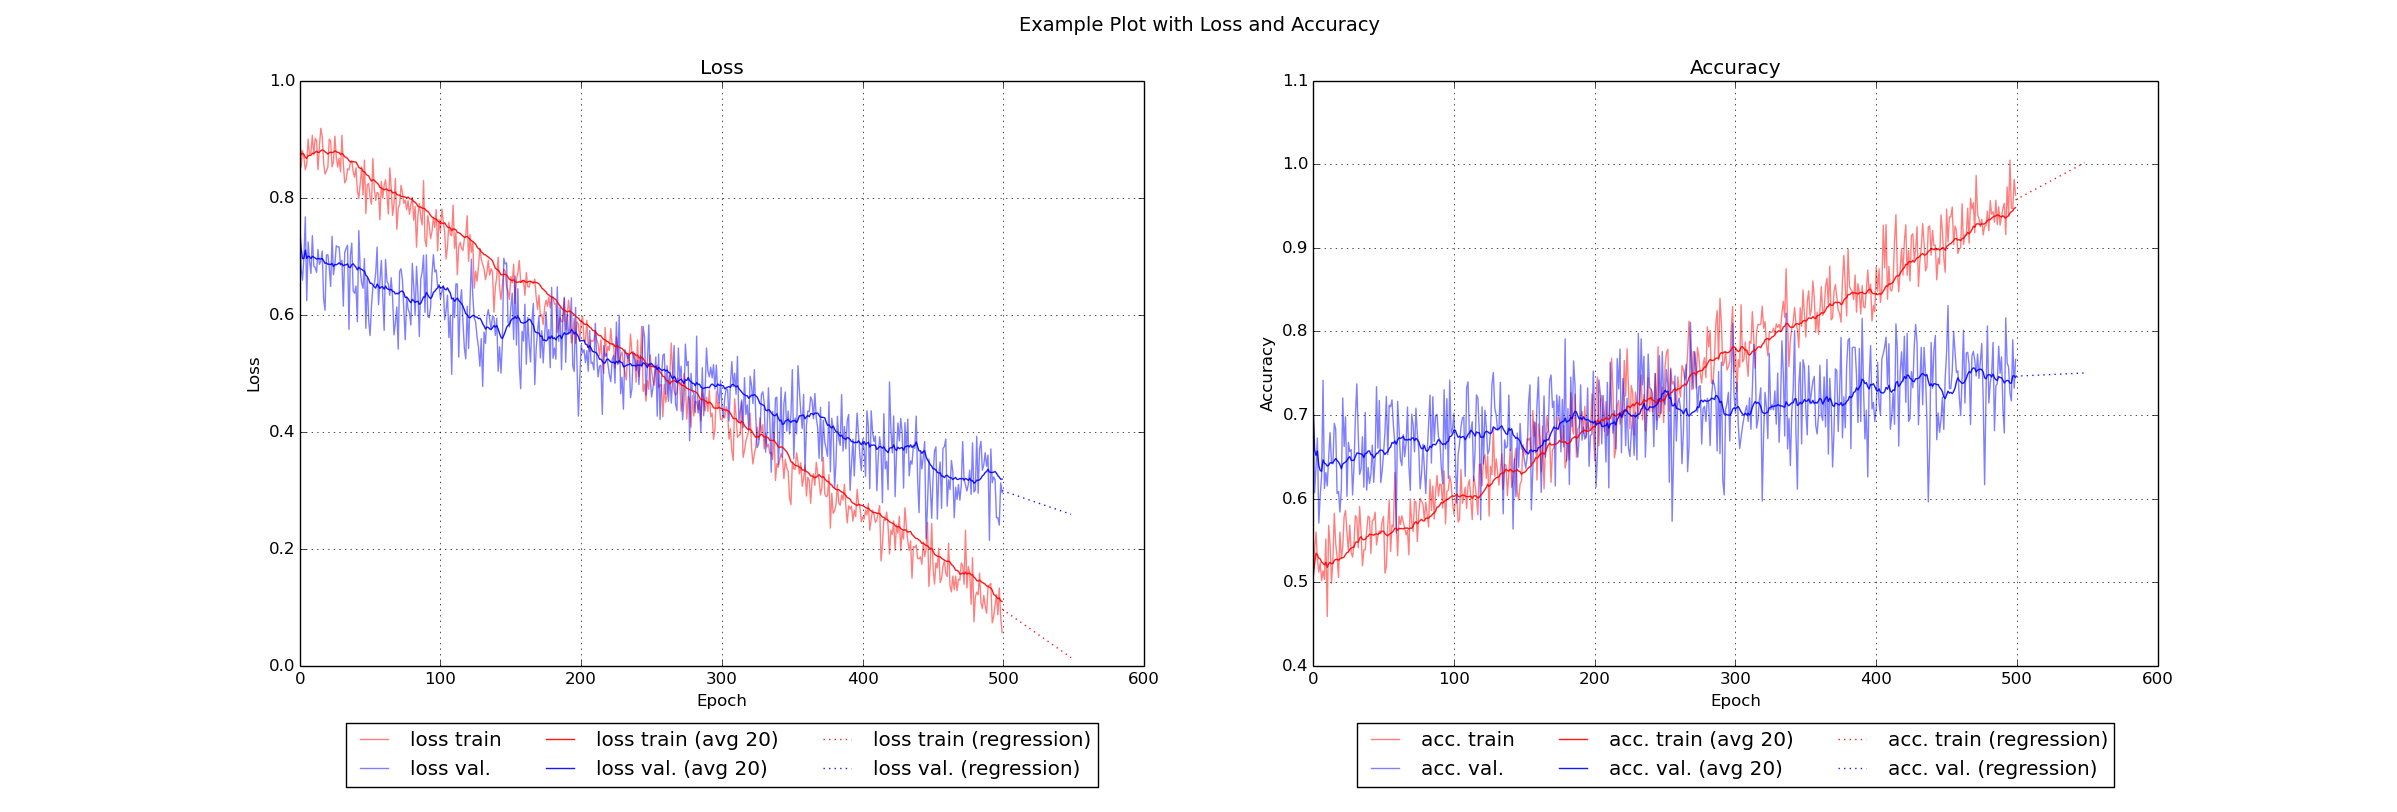
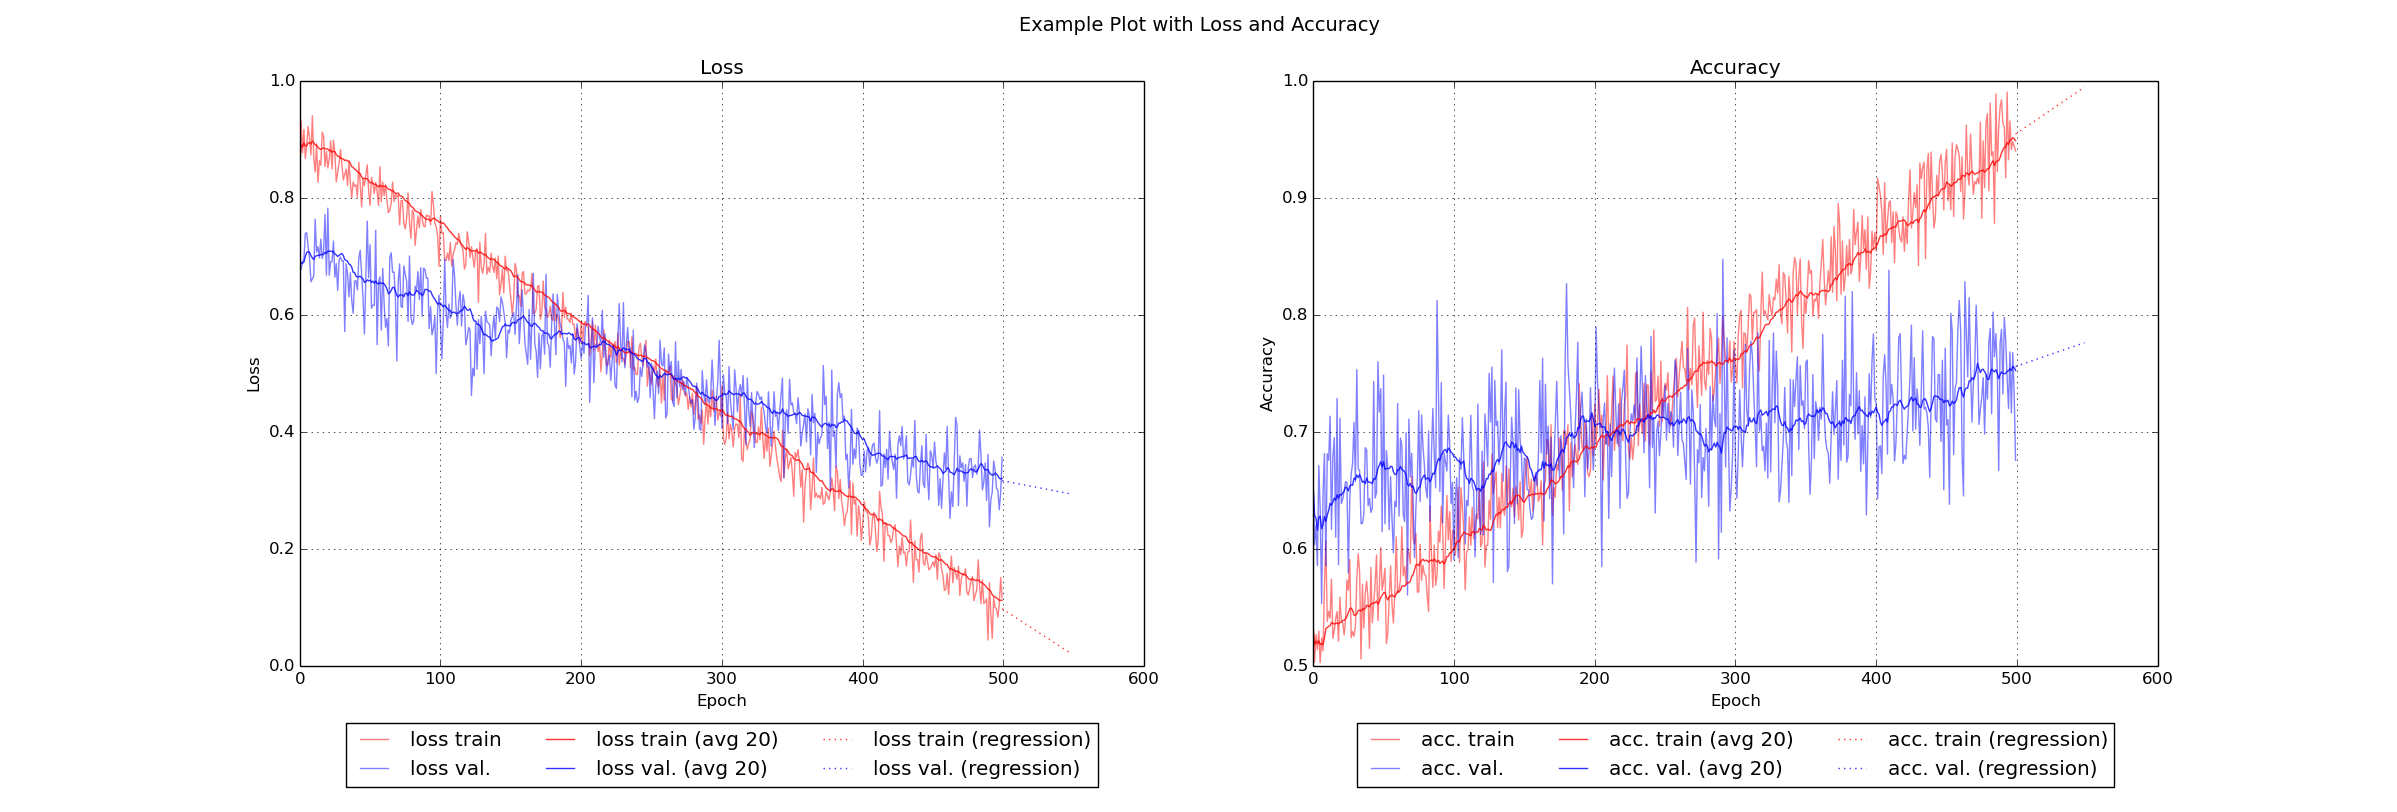
Modified: Use dictionaries instead of lists for (x,y) values of lines; optimize styling; Add: Comments

Changed region(s): [[0.5248, 0.1232, 0.8644, 0.8313], [0.1235, 0.1539, 0.4322, 0.7697]]

diff --git a/laplotter.py b/laplotter.py
@@ -37,6 +37,7 @@ import matplotlib.pyplot as plt
 import numpy as np
 import warnings
 import math
+from collections import OrderedDict
 
 def ignore_nan_and_inf(value, label, x_index):
     """Helper function that creates warnings on NaN/INF and converts them to None.
@@ -72,6 +73,7 @@ class LossAccPlotter(object):
                  show_plot_window=True,
                  x_label="Epoch"):
         """Constructs the plotter.
+
         Args:
             title: An optional title which will be shown at the top of the
                 plot. E.g. the name of the experiment or some info about it.
@@ -109,6 +111,15 @@ class LossAccPlotter(object):
         self.show_plot_window = show_plot_window
         self.save_to_filepath = save_to_filepath
         self.x_label = x_label
+
+        # alpha values
+        # 0.8 = quite visible line
+        # 0.5 = moderately visible line
+        # thick is used for averages and regression (also for the main values,
+        # if there are no averages),
+        # thin is used for the main values
+        self.alpha_thick = 0.8
+        self.alpha_thin = 0.5
 
         # the interval for the moving averages, e.g. 20 = average over 20 epochs
         self.averages_period = 20
@@ -164,24 +175,17 @@ class LossAccPlotter(object):
         self.ax_loss = None
         self.ax_acc = None
 
-        # lists for the values of each line
-        # might be reasonable to change this to ordered dictionaries of
-        # the form x => y, to prevent multiple values with the same x-coordinate
-        # (per line)
-        self.values_loss_train_x = []
-        self.values_loss_val_x = []
-        self.values_acc_train_x = []
-        self.values_acc_val_x = []
-        self.values_loss_train_y = []
-        self.values_loss_val_y = []
-        self.values_acc_train_y = []
-        self.values_acc_val_y = []
+        # dictionaries with x, y values for each line
+        self.values_loss_train = OrderedDict()
+        self.values_loss_val = OrderedDict()
+        self.values_acc_train = OrderedDict()
+        self.values_acc_val = OrderedDict()
 
     def add_values(self, x_index, loss_train=None, loss_val=None, acc_train=None,
                    acc_val=None, redraw=True):
         """Function to add new values for each line for a specific x-value (e.g.
         a specific epoch).
-        
+
         Meaning of the values / lines:
          - loss_train: y-value of the loss function applied to the training set.
          - loss_val:   y-value of the loss function applied to the validation set.
@@ -189,16 +193,16 @@ class LossAccPlotter(object):
                        the training set.
          - acc_val:    y-value of the accuracy (e.g. 0.0 to 1.0) when measured on
                        the validation set.
-        
+
         Values that are None will be ignored.
         Values that are INF or NaN will be ignored, but create a warning.
-        
+
         It is currently assumed that added values follow logically after
-        each other, so the x_index might be first 1, then 2, then 3, ...
-        instead of 10, 11, 5, 7, ...
-        If that is not the case, you will get problems with the calculation
-        of the regression.
-        
+        each other (progressive order), so the first x_index might be 1 (first entry),
+        then 2 (second entry), then 3 (third entry), ...
+        Not allowed would be e.g.: 10, 11, 5, 7, ...
+        If that is not the case, you will get a broken line graph.
+
         Args:
             x_index: The x-coordinate, e.g. x_index=5 might represent Epoch 5.
             loss_train: The y-value of the loss train line at the given x_index.
@@ -224,31 +228,26 @@ class LossAccPlotter(object):
         acc_val = ignore_nan_and_inf(acc_val, "acc val", x_index)
 
         if loss_train is not None:
-            self.values_loss_train_x.append(x_index)
-            self.values_loss_train_y.append(loss_train)
+            self.values_loss_train[x_index] = loss_train
         if loss_val is not None:
-            self.values_loss_val_x.append(x_index)
-            self.values_loss_val_y.append(loss_val)
+            self.values_loss_val[x_index] = loss_val
         if acc_train is not None:
-            self.values_acc_train_x.append(x_index)
-            self.values_acc_train_y.append(acc_train)
+            self.values_acc_train[x_index] = acc_train
         if acc_val is not None:
-            self.values_acc_val_x.append(x_index)
-            self.values_acc_val_y.append(acc_val)
+            self.values_acc_val[x_index] = acc_val
 
         if redraw:
             self.redraw()
-            
 
     def block(self):
         """Function to show the plot in a blocking way.
-        
+
         This should be called at the end of your program. Otherwise the
         chart will be closed automatically (at the end).
         By default, the plot is shown in a non-blocking way, so that the
         program continues execution, which causes it to close automatically
         when the program finishes.
-        
+
         This function will silently do nothing if show_plot_window was set
         to False in the constructor.
         """
@@ -262,7 +261,7 @@ class LossAccPlotter(object):
         This function will silently do nothing if save_to_filepath was not
         set in the constructor, unless the parameter filepath was set to some
         value.
-        
+
         Args:
             filepath: The path to the file, e.g. "/tmp/last_plot.png". If set
                 to None, the filepath that was set in the constructor will be
@@ -301,11 +300,11 @@ class LossAccPlotter(object):
 
     def redraw(self):
         """Redraws the plot with the current values.
-        
+
         This is a full redraw and includes recalculating averages and regressions.
         It should not be called many times per second as that would be slow.
         Calling it every couple seconds should create no noticeable slowdown though.
-        
+
         Args:
             epoch: The index of the current epoch, starting at 0.
             train_loss: All of the training loss values of each
@@ -371,7 +370,7 @@ class LossAccPlotter(object):
                        loc="upper center",
                        bbox_to_anchor=(0.5, -0.08),
                        ncol=ncol)
-        
+
         # save the redrawn plot to a file upon every redraw.
         # save_plot will automatically do nothing if no filepath was set in the
         # constructor.
@@ -379,7 +378,7 @@ class LossAccPlotter(object):
 
     def _redraw_main_lines(self):
         """Draw the main lines of values (i.e. loss train, loss val, acc train, acc val).
-        
+
         Returns:
             List of handles (one per line).
         """
@@ -395,27 +394,27 @@ class LossAccPlotter(object):
         ls_loss_val = self.linestyles["loss_val"]
         ls_acc_train = self.linestyles["acc_train"]
         ls_acc_val = self.linestyles["acc_val"]
-        if len(self.values_loss_train_x) == 1:
+        if len(self.values_loss_train) == 1:
             ls_loss_train = self.linestyles_one_value["loss_train"]
-        if len(self.values_loss_val_x) == 1:
+        if len(self.values_loss_val) == 1:
             ls_loss_val = self.linestyles_one_value["loss_val"]
-        if len(self.values_acc_train_x) == 1:
+        if len(self.values_acc_train) == 1:
             ls_acc_train = self.linestyles_one_value["acc_train"]
-        if len(self.values_acc_val_x) == 1:
+        if len(self.values_acc_val) == 1:
             ls_acc_val = self.linestyles_one_value["acc_val"]
 
         # Plot the lines
-        alpha_main = 0.5 if self.show_averages else 0.8
+        alpha_main = self.alpha_thin if self.show_averages else self.alpha_thick
         if ax1:
-            h_lt, = ax1.plot(self.values_loss_train_x, self.values_loss_train_y,
+            h_lt, = ax1.plot(self.values_loss_train.keys(), self.values_loss_train.values(),
                              ls_loss_train, label="loss train", alpha=alpha_main)
-            h_lv, = ax1.plot(self.values_loss_val_x, self.values_loss_val_y,
+            h_lv, = ax1.plot(self.values_loss_val.keys(), self.values_loss_val.values(),
                              ls_loss_val, label="loss val.", alpha=alpha_main)
             handles.extend([h_lt, h_lv])
         if ax2:
-            h_at, = ax2.plot(self.values_acc_train_x, self.values_acc_train_y,
+            h_at, = ax2.plot(self.values_acc_train.keys(), self.values_acc_train.values(),
                              ls_acc_train, label="acc. train", alpha=alpha_main)
-            h_av, = ax2.plot(self.values_acc_val_x, self.values_acc_val_y,
+            h_av, = ax2.plot(self.values_acc_val.keys(), self.values_acc_val.values(),
                              ls_acc_val, label="acc. val.", alpha=alpha_main)
             handles.extend([h_at, h_av])
 
@@ -423,10 +422,10 @@ class LossAccPlotter(object):
 
     def _redraw_averages(self):
         """Draw the moving averages of each line.
-        
+
         If moving averages has been deactived in the constructor, this function
         will do nothing.
-        
+
         Returns:
             List of handles (one per line).
         """
@@ -437,39 +436,39 @@ class LossAccPlotter(object):
         handles = []
         ax1 = self.ax_loss
         ax2 = self.ax_acc
-    
+
         # calculate the xy-values
         if ax1:
             # for loss chart
-            (lt_sma_x, lt_sma_y) = self._calc_sma(self.values_loss_train_x,
-                                                  self.values_loss_train_y)
-            (lv_sma_x, lv_sma_y) = self._calc_sma(self.values_loss_val_x,
-                                                  self.values_loss_val_y)
+            (lt_sma_x, lt_sma_y) = self._calc_sma(self.values_loss_train.keys(),
+                                                  self.values_loss_train.values())
+            (lv_sma_x, lv_sma_y) = self._calc_sma(self.values_loss_val.keys(),
+                                                  self.values_loss_val.values())
         if ax2:
             # for accuracy chart
-            (at_sma_x, at_sma_y) = self._calc_sma(self.values_acc_train_x,
-                                                  self.values_acc_train_y)
-            (av_sma_x, av_sma_y) = self._calc_sma(self.values_acc_val_x,
-                                                  self.values_acc_val_y)
+            (at_sma_x, at_sma_y) = self._calc_sma(self.values_acc_train.keys(),
+                                                  self.values_acc_train.values())
+            (av_sma_x, av_sma_y) = self._calc_sma(self.values_acc_val.keys(),
+                                                  self.values_acc_val.values())
 
         # plot the xy-values
-        alpha_sma = 0.9
+        alpha_sma = self.alpha_thick
         if ax1:
             # for loss chart
             h_lt, = ax1.plot(lt_sma_x, lt_sma_y, self.linestyles["loss_train_sma"],
-                             label="train loss (SMA %d)" % (self.averages_period,),
+                             label="train loss (avg %d)" % (self.averages_period,),
                              alpha=alpha_sma)
             h_lv, = ax1.plot(lv_sma_x, lv_sma_y, self.linestyles["loss_val_sma"],
-                             label="val loss (SMA %d)" % (self.averages_period,),
+                             label="val loss (avg %d)" % (self.averages_period,),
                              alpha=alpha_sma)
             handles.extend([h_lt, h_lv])
         if ax2:
             # for accuracy chart
             h_at, = ax2.plot(at_sma_x, at_sma_y, self.linestyles["acc_train_sma"],
-                             label="train acc (SMA %d)" % (self.averages_period,),
+                             label="train acc (avg %d)" % (self.averages_period,),
                              alpha=alpha_sma)
             h_av, = ax2.plot(av_sma_x, av_sma_y, self.linestyles["acc_val_sma"],
-                             label="acc. val. (SMA %d)" % (self.averages_period,),
+                             label="acc. val. (avg %d)" % (self.averages_period,),
                              alpha=alpha_sma)
             handles.extend([h_at, h_av])
 
@@ -478,10 +477,10 @@ class LossAccPlotter(object):
     def _redraw_regressions(self):
         """Draw the moving regressions of each line, i.e. the predictions of
         future values.
-        
+
         If regressions have been deactived in the constructor, this function
         will do nothing.
-        
+
         Returns:
             List of handles (one per line).
         """
@@ -496,20 +495,20 @@ class LossAccPlotter(object):
         # acc train (at) and acc val (av)
         if ax1:
             # for loss chart
-            lt_regression = self._calc_regression(self.values_loss_train_x,
-                                                  self.values_loss_train_y)
-            lv_regression = self._calc_regression(self.values_loss_val_x,
-                                                  self.values_loss_val_y)
+            lt_regression = self._calc_regression(self.values_loss_train.keys(),
+                                                  self.values_loss_train.values())
+            lv_regression = self._calc_regression(self.values_loss_val.keys(),
+                                                  self.values_loss_val.values())
         # predicting accuracy values isnt necessary if theres no acc chart
         if ax2:
             # for accuracy chart
-            at_regression = self._calc_regression(self.values_acc_train_x,
-                                                  self.values_acc_train_y)
-            av_regression = self._calc_regression(self.values_acc_val_x,
-                                                  self.values_acc_val_y)
+            at_regression = self._calc_regression(self.values_acc_train.keys(),
+                                                  self.values_acc_train.values())
+            av_regression = self._calc_regression(self.values_acc_val.keys(),
+                                                  self.values_acc_val.values())
 
         # plot the predicted values
-        alpha_regression = 0.9
+        alpha_regression = self.alpha_thick
         if ax1:
             # for loss chart
             h_lt, = ax1.plot(lt_regression[0], lt_regression[1],
@@ -520,6 +519,7 @@ class LossAccPlotter(object):
                              self.linestyles["loss_val_regression"],
                              label="loss val. regression",
                              alpha=alpha_regression)
+            handles.extend([h_lt, h_lv])
         if ax2:
             # for accuracy chart
             h_at, = ax2.plot(at_regression[0], at_regression[1],
@@ -546,7 +546,7 @@ class LossAccPlotter(object):
             Tuple (x_values, y_values), where x_values are the x-values of
             the line and y_values are the y-values of the line.
         """
-        result_x, result_y, last_ys = [], [], []
+        result_y, last_ys = [], []
         running_sum = 0
         period = self.averages_period
         # use a running sum here instead of avg(), should be slightly faster

diff --git a/create_example_images.py b/create_example_images.py
@@ -1,9 +1,19 @@
+"""This script creates some example plots for the README.md."""
 from __future__ import print_function, division
 from laplotter import LossAccPlotter
 from check_laplotter import show_chart, add_noise
 import numpy as np
 
 def main():
+    """Create the example plots in the following way:
+    1. Generate example data (all plots use more or less the same data)
+    2. Generate plot 1: "standard" example with loss and accuracy
+    3. Generate plot 2: Same as 1, but only loss / no accuracy
+    4. Generate plot 3: Same as 1, but no validation lines (only training dataset)
+    5. Generate plot 4: Same as 1, but use only every 10th validation datapoint
+                        (i.e. resembles real world scenario where you rarely
+                        validate your machine learning method)
+    """
     nb_points = 500
 
     loss_train = add_noise(np.linspace(0.9, 0.1, num=nb_points), 0.025)
@@ -12,18 +22,18 @@ def main():
     acc_val = add_noise(np.linspace(0.65, 0.75, num=nb_points), 0.045)
 
     # Normal example plot
-    lap = LossAccPlotter(save_to_filepath="example_plot.jpg")
+    lap = LossAccPlotter(save_to_filepath="example_plot.png")
     show_chart(loss_train, loss_val, acc_train, acc_val, lap=lap,
                title="Example Plot with Loss and Accuracy")
 
     # Plot showing only the results of the loss function (accuracy off)
     lap = LossAccPlotter(show_acc_plot=False,
-                         save_to_filepath="example_plot_loss.jpg")
+                         save_to_filepath="example_plot_loss.png")
     show_chart(loss_train, loss_val, acc_train, acc_val, lap=lap,
                title="Example Plot, only Loss Function")
 
     # Plot showing only training dataset values (but for both loss and accuracy)
-    lap = LossAccPlotter(save_to_filepath="example_plot_only_training.jpg")
+    lap = LossAccPlotter(save_to_filepath="example_plot_only_training.png")
     show_chart(loss_train, np.array([]), acc_train, np.array([]), lap=lap,
                title="Example Plot, only Training Dataset / no Validation Dataset")
 
@@ -40,7 +50,7 @@ def main():
     loss_val[set_to_none_indices] = -1.0
     acc_val[set_to_none_indices] = -1.0
     lap = LossAccPlotter(show_acc_plot=False,
-                         save_to_filepath="example_plot_update_intervals.jpg")
+                         save_to_filepath="example_plot_update_intervals.png")
     show_chart(loss_train, loss_val, acc_train, acc_val, lap=lap,
                title="Example Plot with different Update Intervals for Training " \
                      "and Validation Datasets")

diff --git a/README.md b/README.md
@@ -129,7 +129,7 @@ plotter.block()
 
 # Tests
 
-There are no automized tests, as it's rather hard to measure the quality of a plot automatically.
+There are no automated tests, as it's rather hard to measure the quality of a plot automatically.
 You can however run a couple of checks on the library, which show various example plots.
 These plots should all look plausible and "beautiful".
 Run the checks via:
